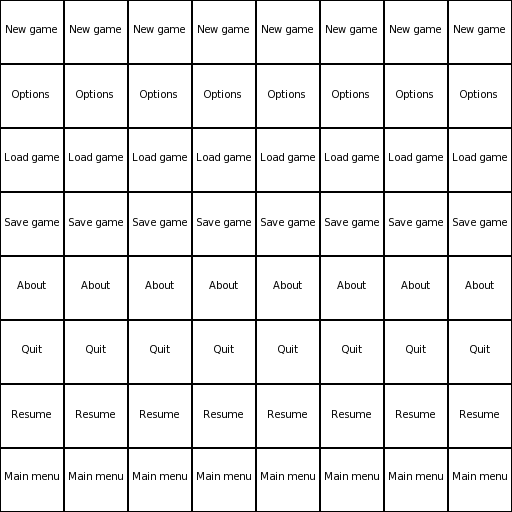
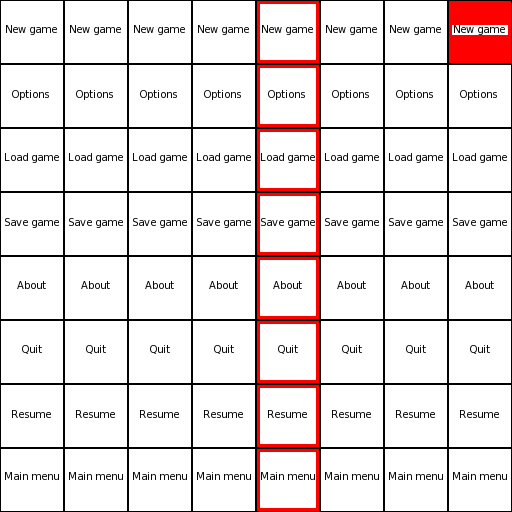
Improve the menu to handle the case of a pressed item

Changed region(s): [[0.5, 0.0, 0.625, 1.0], [0.875, 0.0, 1.0, 0.125]]

diff --git a/jme/MenuState.java b/jme/MenuState.java
@@ -31,11 +31,17 @@ public final class MenuState extends BasicGameState {
     
     private ExtendedMenuHandler input;
     
-    private int previousSelectedIndex;
+    private int previouslySelectedIndex;
+    
+    private int previouslyPressedIndex;
     
     private static final Quaternion enabledItemQuaternion=new Quaternion();
     
-    private static final Quaternion selectedItemQuaternion=new Quaternion(new float[]{0.0f,(float)Math.PI/4.0f,0.0f});
+    private static final Quaternion selectedItemQuaternion=new Quaternion(new float[]{0.0f,(float)(0.5f*Math.PI),0.0f});
+    
+    private static final Quaternion enteredItemQuaternion=new Quaternion(new float[]{0.0f,(float)Math.PI,0.0f});
+    
+    private static final Quaternion disabledItemQuaternion=new Quaternion(new float[]{0.0f,(float)(1.5f*Math.PI),0.0f});
     
     private static final Logger logger=Logger.getLogger(MenuState.class.getName());
     
@@ -111,7 +117,8 @@ public final class MenuState extends BasicGameState {
         rootNode.updateRenderState();
         //setup the input handler
         input=new ExtendedMenuHandler(serviceProvider,this,paused);
-        previousSelectedIndex=-1;
+        previouslySelectedIndex=-1;
+        previouslyPressedIndex=-1;
     }
     
     /**
@@ -138,15 +145,33 @@ public final class MenuState extends BasicGameState {
     public final void update(final float tpf) {
         super.update(tpf);
         input.update(tpf);
-        int currentSelectedIndex=input.getIndex();
-        if(currentSelectedIndex!=previousSelectedIndex)
-            {//unselect the previous index if valid
-             if(previousSelectedIndex!=-1)
-                 menuItemArray[previousSelectedIndex].setLocalRotation(enabledItemQuaternion);
+        int currentlySelectedIndex=input.getIndex();       
+        if(currentlySelectedIndex!=previouslySelectedIndex)
+            {// ( E -> S ) && ( S -> E )
+             //unselect the previous index if valid
+             if(previouslySelectedIndex!=-1)
+                 menuItemArray[previouslySelectedIndex].setLocalRotation(enabledItemQuaternion);
              //select the current index
-             menuItemArray[currentSelectedIndex].setLocalRotation(selectedItemQuaternion);
+             menuItemArray[currentlySelectedIndex].setLocalRotation(selectedItemQuaternion);
              //update the previous index
-             previousSelectedIndex=currentSelectedIndex;
+             previouslySelectedIndex=currentlySelectedIndex;
+            }
+        else
+            {if(input.isEntering())
+                 {// S -> P
+                  if(previouslyPressedIndex==-1)
+                      {previouslyPressedIndex=currentlySelectedIndex;
+                       //"press"
+                       menuItemArray[currentlySelectedIndex].setLocalRotation(enteredItemQuaternion);   
+                      }               
+                 } 
+             else
+                 {// P -> S
+                  if(previouslyPressedIndex!=-1)
+                      {previouslyPressedIndex=-1;
+                       menuItemArray[currentlySelectedIndex].setLocalRotation(selectedItemQuaternion);
+                      }
+                 }
             }
     }
 }

diff --git a/jme/ExtendedMenuHandler.java b/jme/ExtendedMenuHandler.java
@@ -17,6 +17,8 @@ public final class ExtendedMenuHandler extends InputHandler{
     
     private MenuIndex index;
     
+    private boolean isEntering;
+    
     private static enum MenuIndex{NEW_GAME,OPTIONS,LOAD_GAME,SAVE_GAME,ABOUT,QUIT_GAME};
     
     private static final MenuIndex INITIAL_MENU_INDEX=MenuIndex.NEW_GAME;
@@ -33,10 +35,15 @@ public final class ExtendedMenuHandler extends InputHandler{
         addAction(new DownAction(),InputHandler.DEVICE_KEYBOARD,KeyInput.KEY_DOWN,InputHandler.AXIS_NONE,false);
         this.menuState=menuState;
         this.index=INITIAL_MENU_INDEX;
+        this.isEntering=false;
     }
     
     public final int getIndex(){
         return(index.ordinal());
+    }
+    
+    public final boolean isEntering(){
+        return(isEntering);
     }
     
     private final class UpAction extends InputAction{
@@ -47,6 +54,7 @@ public final class ExtendedMenuHandler extends InputHandler{
             long latestUpAction=System.currentTimeMillis();
             if(latestUpAction-latestValidUpAction>canonicalStateChangeTime)
                 {index=MenuIndex.values()[(index.ordinal()+(menuIndexCount-1))%menuIndexCount];
+                 isEntering=false;
                  latestValidUpAction=latestUpAction;
                 }
         }
@@ -60,6 +68,7 @@ public final class ExtendedMenuHandler extends InputHandler{
             long latestDownAction=System.currentTimeMillis();
             if(latestDownAction-latestValidDownAction>canonicalStateChangeTime)
                 {index=MenuIndex.values()[(index.ordinal()+1)%menuIndexCount];
+                 isEntering=false;
                  latestValidDownAction=latestDownAction;
                 }
         }
@@ -91,6 +100,8 @@ public final class ExtendedMenuHandler extends InputHandler{
         }
         
         public final void performAction(InputActionEvent evt){
+            isEntering=true;
+            /*
             switch(index)
             {
                 case NEW_GAME:
@@ -99,7 +110,7 @@ public final class ExtendedMenuHandler extends InputHandler{
                       *       detach it from the state machine   
                       */  
                      //activate the main menu state
-                     GameStateManager.getInstance().activateChildNamed("Main menu");
+                     /*GameStateManager.getInstance().activateChildNamed("Main menu");
                     }
                  else
                      {GameState levelGameState=this.serviceProvider.getLevelGameState(0);
@@ -117,7 +128,8 @@ public final class ExtendedMenuHandler extends InputHandler{
                 {serviceProvider.exit();
                  break;
                 }
-            }           
+            }  
+            */
         }
     }
 }
